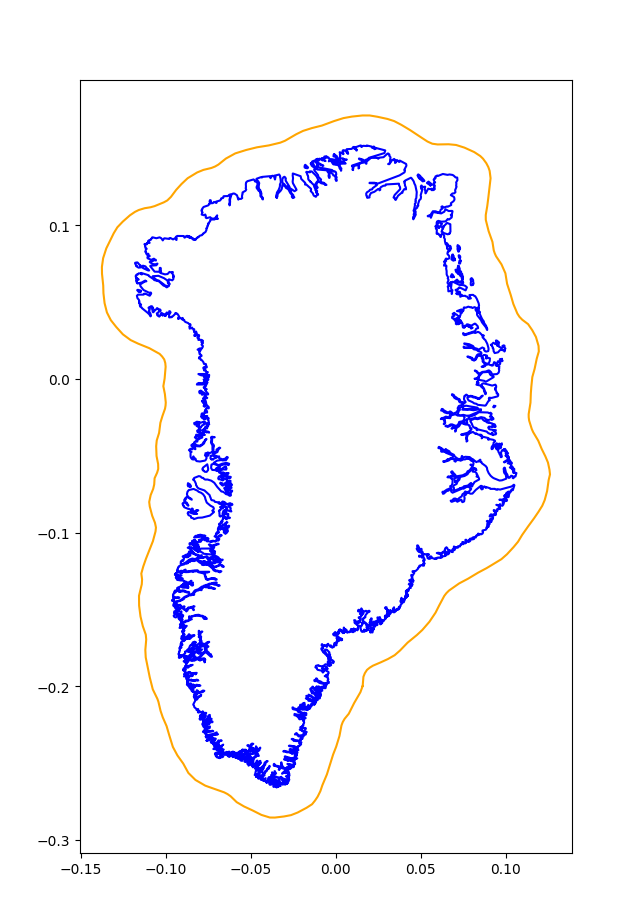
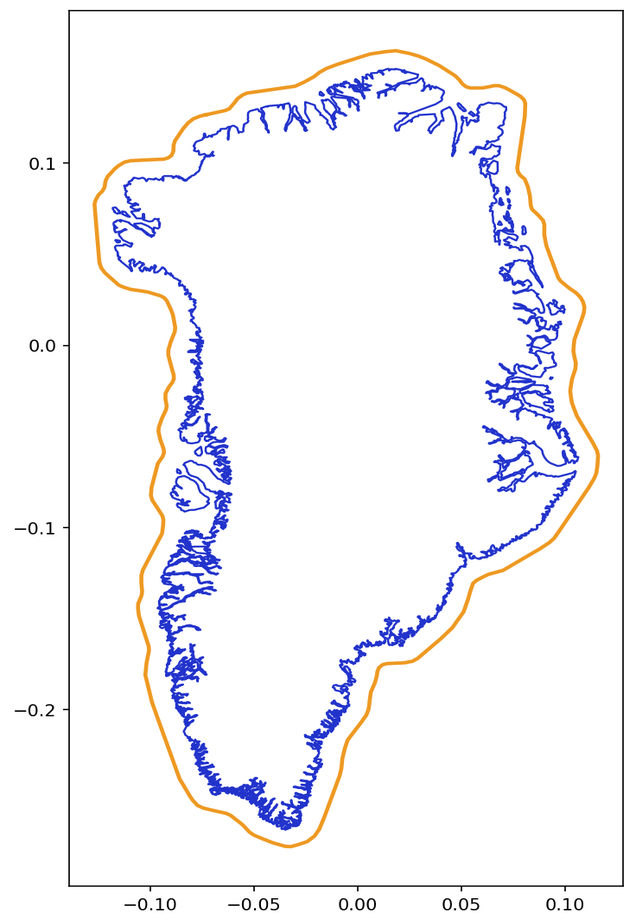
Update to README.md describing the new version

diff --git a/mdc/README.md b/mdc/README.md
@@ -1,5 +1,6 @@
 # Minimizing Scale Distortion in Conformal Projections
-This code implements an algorithm which generates a map projection optimized for a given region, such that it is conformal within that region and has a consistant scale along the region's boundary.
+## Geobica Projection 2.0, released 28 August 2026
+This code implements an algorithm which generates a map projection optimized for a given region, such that it is conformal within that region and has a consistent scale along the region's boundary.
 
 The math of the algorithm is explained on [my blog](https://www.geobica.com/bl/mdc/). To implement the Schwarz-Christoffel mapping needed for the computation, I used Toby Driscoll's [Schwarz–Christoffel Toolbox](https://tobydriscoll.net/project/sc-toolbox/), which was ported from MATLAB to GNU Octave by [Joseph Malkoun](https://github.com/joemalk/sc_toolbox_octave).
  
@@ -9,51 +10,39 @@ Three python files are used to implement the projection algorithm:
 2. `geobica_projection.py`
 	- Takes this boundary and numerically implements the projection algorithm to generate the corresponding positions of sample points in a stereographic projection and the optimized conformal projection (W and M respectively).
 3. `interpolate.py`
-	- Uses these sample points to project a given shapefile to the generated projection via Clough Tocher 2D interpolation.
+	- Uses these sample points to project a given shapefile to the generated projection via a piecewise linear interpolation on each
+     triangle in a Delaunay triangulation performed on the mesh points found through Schwarz-Christoffel mapping, with slight adjustments
+     made after to correct minor precision errors.
 
-## bubble_wrap.py
+## How to Use this Tool
 
-Given a geopackage in the folder `input_sample/`, such as the map of Greenland provided at `input_sample/greenland.gpkg`, this script can be used to compute a polygon W with enough buffer space to allow the projection algorithm to work. The map given, as well as any map that will later be given to be reprojected, should be in an equirectangular projection (EPSG:4326). Conversion to stereographic in preparation for reprojection to the optimized projection, will be done by my code.
-
-As an example, this script could be used by running:
+In the new August 2026 version of this tool, the only script you need to run to create and use a projection is:
 ```
-python bubble_wrap.py greenland -40 75
+python geobica_projection.py
 ```
-Where "greenland" is the name of the file in the `input_sample/` folder, and -40 and 75 are the longitude and latitude in degrees of a point contained in the region. These points should be approximately central to the region, but importantly, the point opposite to them on the globe (in this case 140°E 75°S) must be outside the region.
 
-The generated polygon W and the given centerpoint will be stored at `pickle/bubble_wrap/[NAME]_full_wrapping.txt`, where `[NAME]` is the name given to the aforementioned region, in this case `greenland`.
+This will open a TUI menu in which you can select a projection to use, or create a new projection, and then select a shapefile that you
+ want to project.
 
-The image below shows the stereographic projection of Greenland in blue, with the polygon W in orange: 
+In the First Menu, you can either select a precomputed projection, or pick a boundary to use as W in the calculation of a new optimized projection out of the shapefiles in `boundary_polygons/`, or select the `New Boundary` option to run the `bubble_wrap.py` script on a potentially more complicated set of shapes and get a usable boundary around it.
+
+If you pick to create a New Boundary for `greenland`, for instance, it will use the file at `input_sample/greenland.gpkg` and find a boundary that goes around it with somewhat of a buffer as can be seen in the image below, showing the stereographic projection of Greenland in blue, with the polygon W in orange:
+
 ![A stereographic projection of Greenland showing the generated polygon around it.](wrapped_greenland.png)
 
-## geobica_projection.py
+The boundary W found by the bubble_wrap algorithm will be added to `boundary_polygons/` and will from then on be selectable in the First Menu as a boundary to use without having to repeat the bubble_wrap step.
 
-This algorithm uses the polygon in `pickle/bubble_wrap/` to calculate a numerical implementation of the optimal conformal projection for that region.
+## Second Menu
 
-As an example, this script could be used by running:
-```
-python geobica_projection.py greenland
-```
-It can take several minutes to run for a small region, and approximately an hour for large complex regions, so save states are stored in `pickle/matlab_saves/`. These can be used when rerunning the code by adding the level number of the last matlab data save generated. For example, if `greenland_level_5.mat` has been generated, you could run `python geobica_projection.py greenland 5` to continue the algorithm from there. Each level corresponds to a layer of the heptagonal lattice away from the center given, as described in my blog post.
+After the projection has been computed, the user has the option to select a shapefile to project into the desired projection. To add your own shapefile to this list, put it in `maps_to_project/`.
 
-Once complete, the sample points locations will be stored at `pickle/interpolation_points/[NAME]_W.npy` and `pickle/interpolation_points/[NAME]_M.npy`, for the points in the stereographic projection and the new projection respectively.
+The chosen file should be in an equirectangular projection (EPSG:4326). Three new shapefiles will be created in the optimized projection:
++ `projection_[NAME]_[SHAPEFILE].shp` (projection of the shapefile `[SHAPEFILE]` selected in the second menu)
++ `boundary_[NAME].shp` (the polygon M)
++ `mesh_[NAME].shp` (the analytically calculated points used to define the triangulation)
 
-## interpolate.py
+Below on the left are the outputted shapefiles for Greenland in the stereographic projection, with the optimized projection on the right. The `greenland_detail` geopackage includes the boundaries of Greenland's 5 municipalities, so they are shown in the output here. This projection was computed using the old version of the tool, so the boundary visibly has more error than it should now:
 
-Given a geopackage that you want to reproject, such as `maps_to_project/greenland_detail.gpkg` given as an example, the computed sample points for `greenland` could be used by running:
-```
-python interpolate.py greenland maps_to_project/greenland_detail.gpkg
-```
-The input file should be in an equirectangular projection (EPSG:4326). Six new shapefiles will be created:
-+ Three in a stereographic projection centered on the originally given center:
-	- `original_[NAME].shp` (projection of the geopackage given to `interpolate.py`)
-	- `original_outline_[NAME].shp` (the polygon W)
-	- `original_gridline_[NAME].shp` (a grid of latitude and longitude lines)
-+ Three in the optimized projection:
-	- `[NAME].shp` (projection of the geopackage given to `interpolate.py`)
-	- `outline_[NAME].shp` (the polygon M)
-	- `gridline_[NAME].shp` (a grid of latitude and longitude lines)
-
-Below on the left are the outputted shapefiles for Greenland in the stereographic projection, with the optimized projection on the right. The `greenland_detail` geopackage includes the boundaries of Greenland's 5 municipalities, so they are shown in the output here.
 ![A side by side comparison of the six output shapefiles for Greenland.](output_greenland.png)
-At the edge of the shapes outlines in the optimized projection there is significant error, due to the way in which the interpolation works, but for the area inside Greenland this distortion does not occur. In the future, I hope to be able to refine the way this algorithm approximates projection of points on the boundary of W. When attempting to project points outside of W, the interpolation algorithm will resort to a nearest points interpolation algorithm, as it is generally not possible to continue these projections beyond the boundary polygon in a way that maintains their conformality.
+
+At the edge of the shapes outlines in the optimized projection there was significant error introduced in the original version of this tool, due to the way in which the interpolation works, but for the area inside Greenland this distortion does not occur. In the future, I hope to be able to refine the way this algorithm approximates projection of points on the boundary of W through a more robust analytic method, rather than through interpolation. When attempting to project points outside of W, the interpolation algorithm will fall back on the linear transformation of the nearest triangle in the triangulation to the point, as it is generally not possible to continue the pure Schwarz-Christoffel projections beyond the boundary polygon in a way that maintains their conformality.
